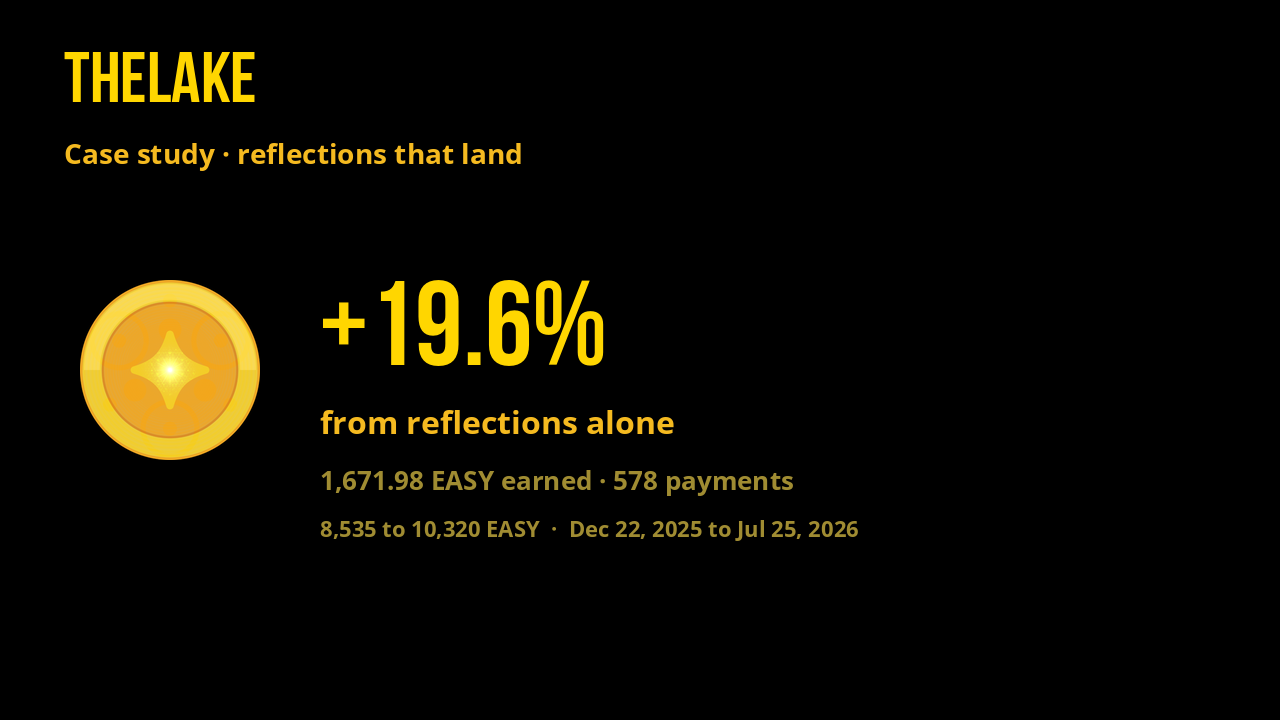
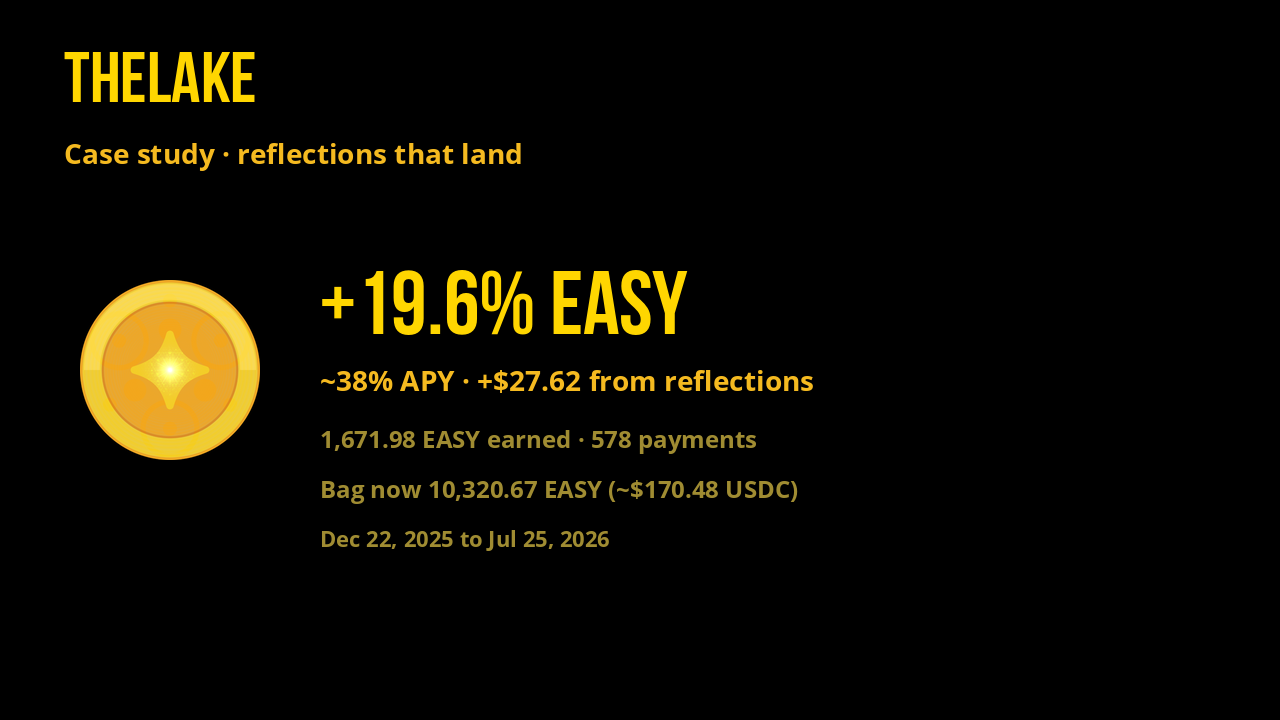
cxc case

Changed region(s): [[0.25, 0.3667, 0.6875, 0.7639]]

diff --git a/our-story/success-in-community.md b/our-story/success-in-community.md
@@ -13,15 +13,16 @@ On **December 22, 2025**, XPR account [`thelake`](https://explorer.xprnetwork.or
 
 **Reflections earned since then:** **1,671.98 EASY** across **578** on-chain payments from `mon3y` (through July 25, 2026).
 
-That’s **+19.6%** grown from reflections alone, without selling, while the bag kept collecting.
+That’s **+19.6% in EASY** from reflections alone (about **~38% APY** annualized over ~7 months), without selling, while the bag kept collecting. At the current EASY price (~**$0.0165**), that is roughly **+$27.62 USDC** earned in reflections, and the bag is worth about **$170.48 USDC** now.
 
 | | |
 | --- | --- |
 | Account created | Dec 22, 2025 |
-| Day-one stack | 8,535.71 EASY |
-| Reflections (mon3y → thelake) | **1,671.98 EASY** |
+| Day-one stack | 8,535.71 EASY (~$141 at today’s price) |
+| Reflections (mon3y → thelake) | **1,671.98 EASY** (~**$27.62 USDC**) |
+| Reflection gain | **+19.6% EASY** · **~38% APY** |
 | Reflection payments | 578 |
-| Balance now | **10,320.67 EASY** |
+| Balance now | **10,320.67 EASY** (~**$170.48 USDC**) |
 | Explorer | [thelake](https://explorer.xprnetwork.org/account/thelake) |
 
 ![thelake reflections summary](assets/thelake-reflections-summary.png)

diff --git a/our-story/founder-story.md b/our-story/founder-story.md
@@ -24,12 +24,12 @@ Along the way:
 - **Ups**: time-token voting / “web4 Reddit” contract patterns for collective curation
 - **Loot**: gamified NFT staking
 - **[Aquarius Academy](https://aquarius.academy)**: open education around consciousness, geometry, and new-earth systems
-- **[Tetra](https://tetra.earth)** / **[XParty](https://xparty.win)**: experiments in fractal coordination and collective play
+- **[Tetra](https://tetra.earth)**: experiments in fractal coordination and collective play
 - Grants-backed work across **WAX**, **TONO**, and **EOS** (from 2021 onward)
 
 ![Douglas with Alejandro at Hash Fest 2023](assets/douglas-hash-fest-2023.jpeg)
 
-![cXc geotemporal music map](assets/cxc-music-map.png)
+![cXc.world](assets/cxc-world.png)
 
 I write about this stack in pieces like the [Web 4 Manifesto](https://douglas-life.medium.com/provable-democracy-the-web-4-manifesto-by-douglas-butner-3c8785d2f92a): provable democracy, time tokens, geotribes, and systems that make collaboration visible on-chain.
 

diff --git a/legal-and-terms.md b/legal-and-terms.md
@@ -40,7 +40,7 @@ Proceeds are used to **pay developers**, fund **Contributors Club**, and support
 
 Transfer taxes (reflection / burn / team rates on each Flex token) are separate from this protocol fee. See [How it works](how-it-works.md). Pool-fee routing (Welcome / Club / MEME buyback) is documented under [Tokenomics](tokenomics.md).
 
-As always, we do our best and you’ll see that in our track record, including cXc.world, xparty.win, and the performance of EASY in the markets.
+As always, we do our best and you’ll see that in our track record, including cXc.world and the performance of EASY in the markets.
 
 This legal note protects our volunteers and those we serve. Thank you for your trust in the project and the developer, Douglas James Butner.
 

diff --git a/easy-blockchain.md b/easy-blockchain.md
@@ -31,6 +31,8 @@ flowchart TB
 - **Infra + BP**: democratically vetted core group paid in USDC; finalizers paid in RAM
 - **Application**: WebAuth-signed experiences
 - **Advertising / Attention**: tokenized offers for non-tokenized goods/services on a global map, fulfilled by EASY (based on [cXc.world](https://cxc.world))
+
+![cXc.world](assets/cxc-world.png)
 - **EASY Lifestyle**: tech-positive minimalists maximizing output; paid Skool community (optional lifetime buy-in with EASY)
 - **EASY Wins**: retroactive public goods game
 - **Super Club**: fractal meetings with rewards every 2 weeks
